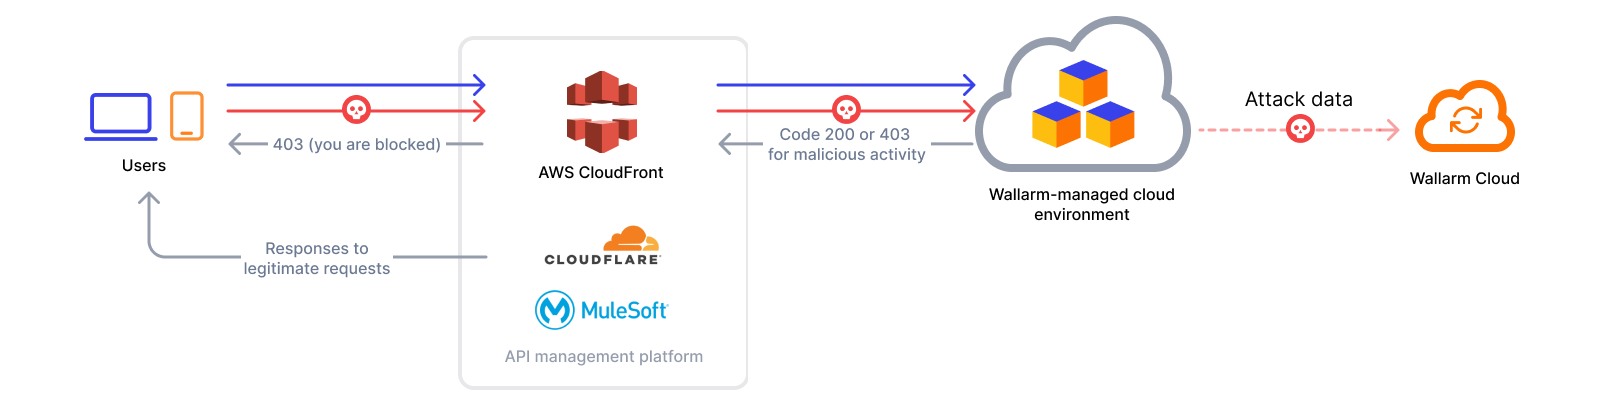
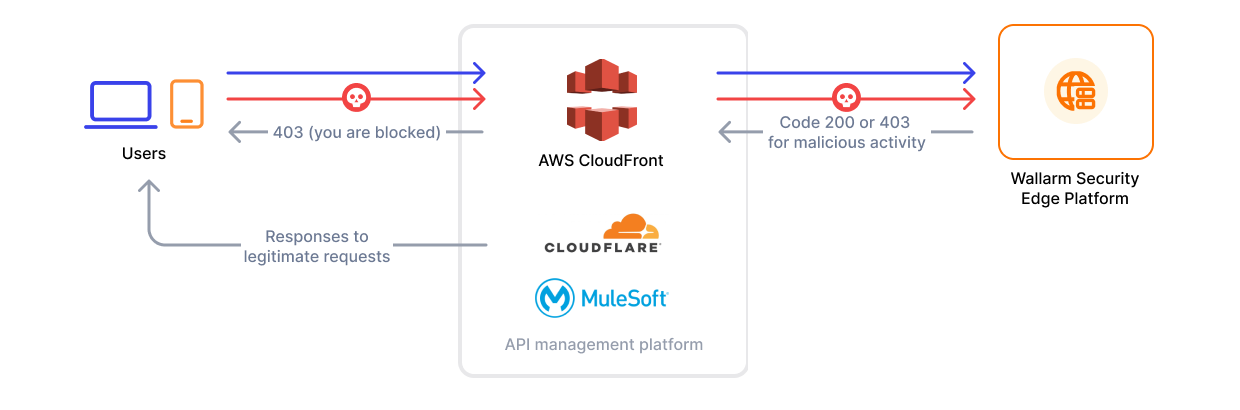
fixes after review

diff --git a/docs/latest/installation/se-connector.md b/docs/latest/installation/se-connector.md
@@ -4,13 +4,13 @@
 
 # Security Edge Connectors <a href="../../../about-wallarm/subscription-plans/#security-edge"><img src="../../../images/security-edge-tag.svg" style="border: none;"></a>
 
-The **Security Edge** platform provides a streamlined, managed service for deploying nodes across geographically distributed locations within a Wallarm-hosted environment. One of its key deployment options is the [**connector**](connectors/overview.md) node deployment, offering robust protection for your entire API landscape without the need for any onsite installation.
+The **Security Edge** platform provides a managed service for deploying nodes across geographically distributed locations within a Wallarm-hosted environment. One of its key deployment options is the [**connector**](connectors/overview.md) node deployment, offering robust protection for your entire API landscape without the need for any onsite installation.
 
 ![!](../images/waf-installation/security-edge/connectors/traffic-flow.png)
 
 ## How it works
 
-Wallarm Edge service provides a secure cloud environment where the Wallarm node is deployed, hosted, and managed by Wallarm:
+Security Edge service provides a secure cloud environment where the Wallarm node is deployed, hosted, and managed by Wallarm:
 
 * Turnkey deployment: deploy Wallarm nodes in globally distributed locations with minimal setup.
 * Autoscaling: node instances automatically scale to handle varying traffic loads.
@@ -22,6 +22,8 @@ Wallarm Edge service provides a secure cloud environment where the Wallarm node 
 ## Deploying the Edge node for a connector
 
 You only need to specify the connector settings. Wallarm will handle the deployment and provide you with an endpoint to route traffic from your platform.
+
+One endpoint can handle multiple connections from different hosts.
 
 1. The Security Edge deployment is available only with the corresponding subscription. Contact sales@wallarm.com to obtain it.
 1. Proceed to Wallarm Console → **Security Edge** → **Connectors** → **Add connector**.
@@ -36,6 +38,8 @@ You only need to specify the connector settings. Wallarm will handle the deploym
         Each node requires a general application ID, with the option to assign specific IDs for locations or instances.
     
     * **Allowed hosts**: specify which hosts the node will accept and analyze traffic from.
+
+        If a specified host does not exist or is unreachable, the 415 error will be returned, and the traffic will not be processed.
     * **Location configuration**: assign unique application IDs to specific hosts and locations, if needed.
 
         ![!][se-connector-hosts-locations-img]
@@ -53,3 +57,10 @@ After deploying the Edge node, you will need to inject Wallarm code into your pl
 * [MuleSoft](connectors/mulesoft.md)
 * [CloudFront](connectors/aws-lambda.md)
 * [Cloudflare](connectors/cloudflare.md)
+
+<!-- add the schreenshot with the green status and RPS and with no "staging" mentioned
+rename the "connector configuration" button the connectors
+mention that users can edit settings on the deployment SE and that can delete and what happens if they delete the SE deployment
+if the SE node, code connector is downloaded from the UI. if self-hosted, it should be requested from the sales team
+mention that we upgrade the edge node oursleves. latest stable with all features
+ -->

diff --git a/docs/latest/installation/security-edge/deployment.md b/docs/latest/installation/security-edge/deployment.md
@@ -1,14 +1,14 @@
 # Security Edge Inline <a href="../../../about-wallarm/subscription-plans/#security-edge"><img src="../../../images/security-edge-tag.svg" style="border: none;"></a>
 
-The **Security Edge** platform provides a streamlined, managed service for deploying nodes across geographically distributed locations within a Wallarm-hosted environment. One of its key deployment options is **inline** deployment, offering real-time, robust protection for your entire API landscape without the need for any onsite installation.
+The **Security Edge** platform provides a managed service for deploying nodes across geographically distributed locations within a Wallarm-hosted environment. One of its key deployment options is **inline** deployment, offering real-time, robust protection for your entire API landscape without the need for any onsite installation.
 
 This is an ideal solution for securing APIs when you can redirect traffic from your hosts to Wallarm's edge nodes by modifying the CNAME records in your DNS settings.
 
-![!](../../images/waf-installation/se-inline.png)
+![!](../../images/waf-installation/security-edge/inline/traffic-flow.png)
 
 ## How it works
 
-Wallarm Edge service provides a secure cloud environment where the Wallarm node is deployed, hosted, and managed by Wallarm:
+Security Edge service provides a secure cloud environment where the Wallarm node is deployed, hosted, and managed by Wallarm:
 
 * Turnkey deployment: deploy Wallarm nodes in globally distributed locations with minimal setup.
 * Autoscaling: node instances automatically scale to handle varying traffic loads.
@@ -19,7 +19,7 @@ Wallarm Edge service provides a secure cloud environment where the Wallarm node 
 
 1. The Security Edge deployment is available only with the corresponding subscription. Contact sales@wallarm.com to obtain it.
 1. Go to the Wallarm Console → **Security Edge** → **Edge inline** → **Add origin**.
-1. Specify the **origin** (source server or infrastructure) that will send traffic to the Wallarm Edge node. This can be either an IP address or a domain.
+1. Specify the **origin** (source server or infrastructure) where the Edge node will forward the filtered traffic. This can be either an IP address or a domain.
 1. Choose one or more **regions** to deploy the Wallarm node.
 
     We recommend selecting regions close to where your APIs or applications are hosted. Deploying in multiple regions enhances geo-redundancy and ensures high availability.
@@ -39,10 +39,11 @@ Wallarm Edge service provides a secure cloud environment where the Wallarm node 
 
 ## Limitations
 
-* Second-level domains (e.g., `domain.com`) are not supported. Use subdomains (e.g., `www.domain.com`) instead.
+* Second-level domains are not supported  (e.g., instead `domain.com` use `www.domain.com`).
 * Only domains shorter than 64 characters are supported.
 * Only HTTPS traffic is supported; HTTP is not allowed.
 
 <!-- You can not manual add certificate - only issue a new one.???
 no cert manageent again?
+wallarm edge -> security edge
   -->

diff --git a/docs/latest/installation/connectors/overview.md b/docs/latest/installation/connectors/overview.md
@@ -19,9 +19,9 @@ With connectors, traffic can be analyzed either [in-line](../inline/overview.md)
 === "Out-of-band traffic flow"
     ![image](../../images/waf-installation/general-traffic-flow-for-connectors-oob.png)
 
-## Wallarm Edge connectors
+## Security Edge connectors
 
-Wallarm Edge Connectors are those where the Wallarm node is deployed, hosted, and managed by Wallarm in a secure cloud environment:
+Security Edge Connectors are those where the Wallarm node is deployed, hosted, and managed by Wallarm in a secure cloud environment:
 
 * **Autoscaling**: node instances automatically scale to handle varying traffic loads.
 * **Region selection**: choose deployment regions closer to your infrastructure for better performance and redundancy.

diff --git a/docs/latest/about-wallarm/subscription-plans.md b/docs/latest/about-wallarm/subscription-plans.md
@@ -65,7 +65,7 @@ To activate the subscription plan, do one of the following:
 
 ## Security Edge
 
-The Security Edge subscription plan allows you to deploy the Wallarm node on the Wallarm Edge, eliminating the need for onsite installation and management.
+The Security Edge subscription plan allows you to deploy the Wallarm node on the managed environment, eliminating the need for onsite installation and management.
 
 With Wallarm handling node hosting and maintenance, you can focus on your core infrastructure while benefiting from robust traffic filtering, attack detection, and secure communication - all backed by Wallarm.
 
